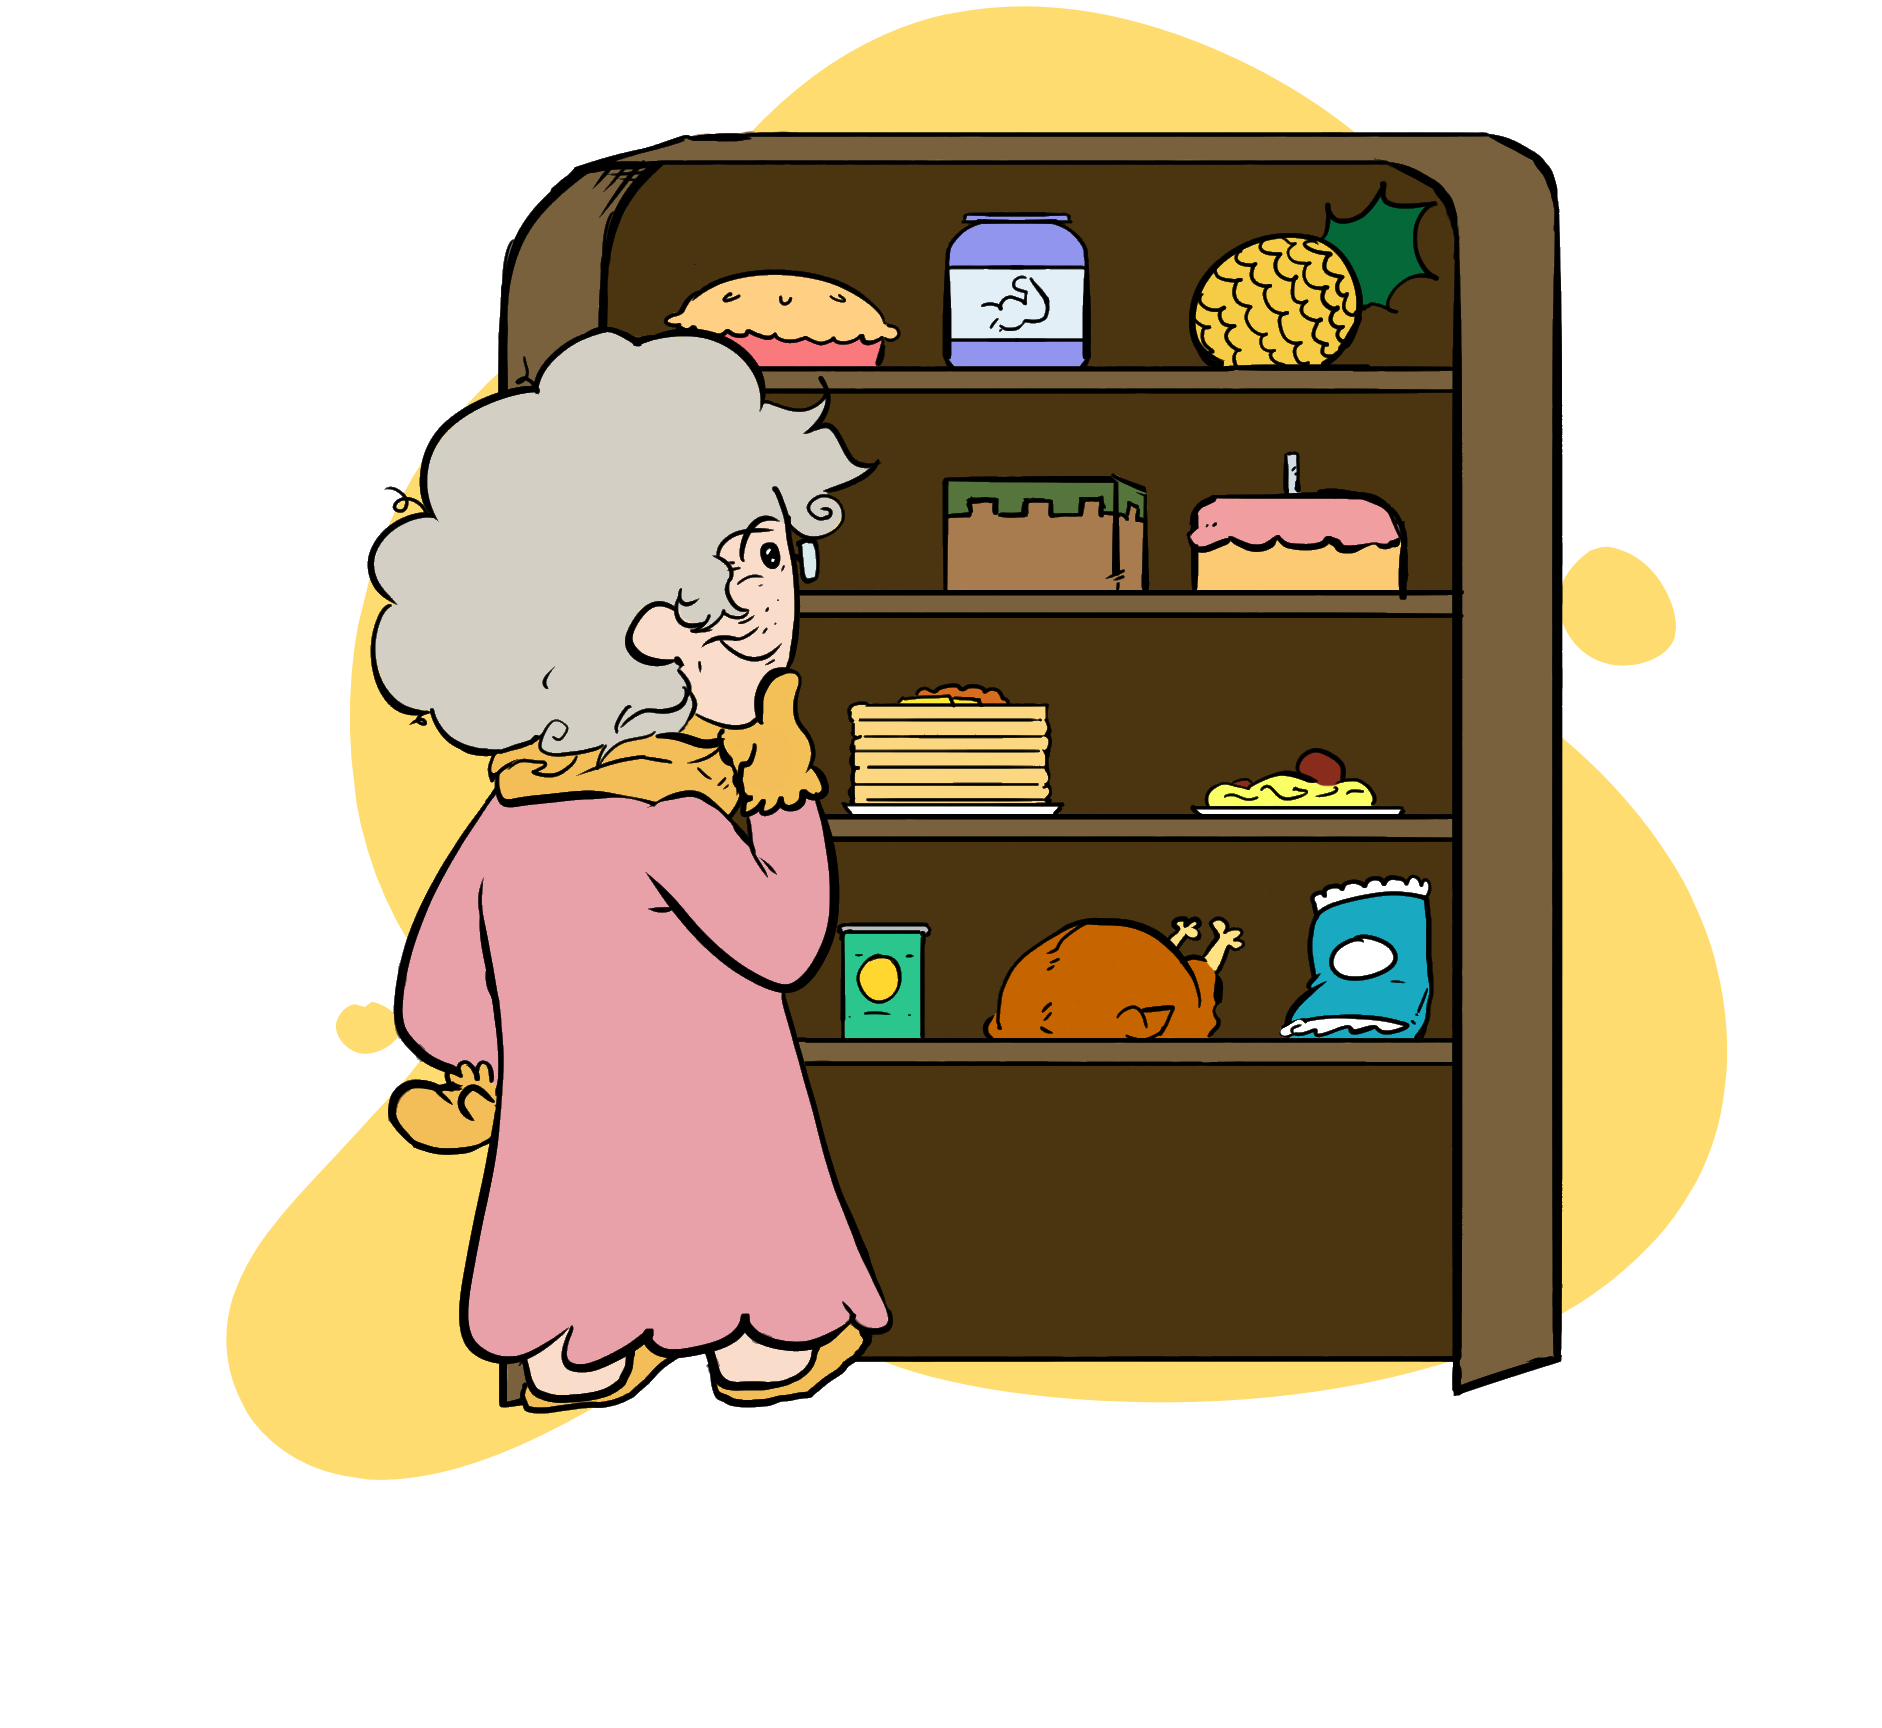
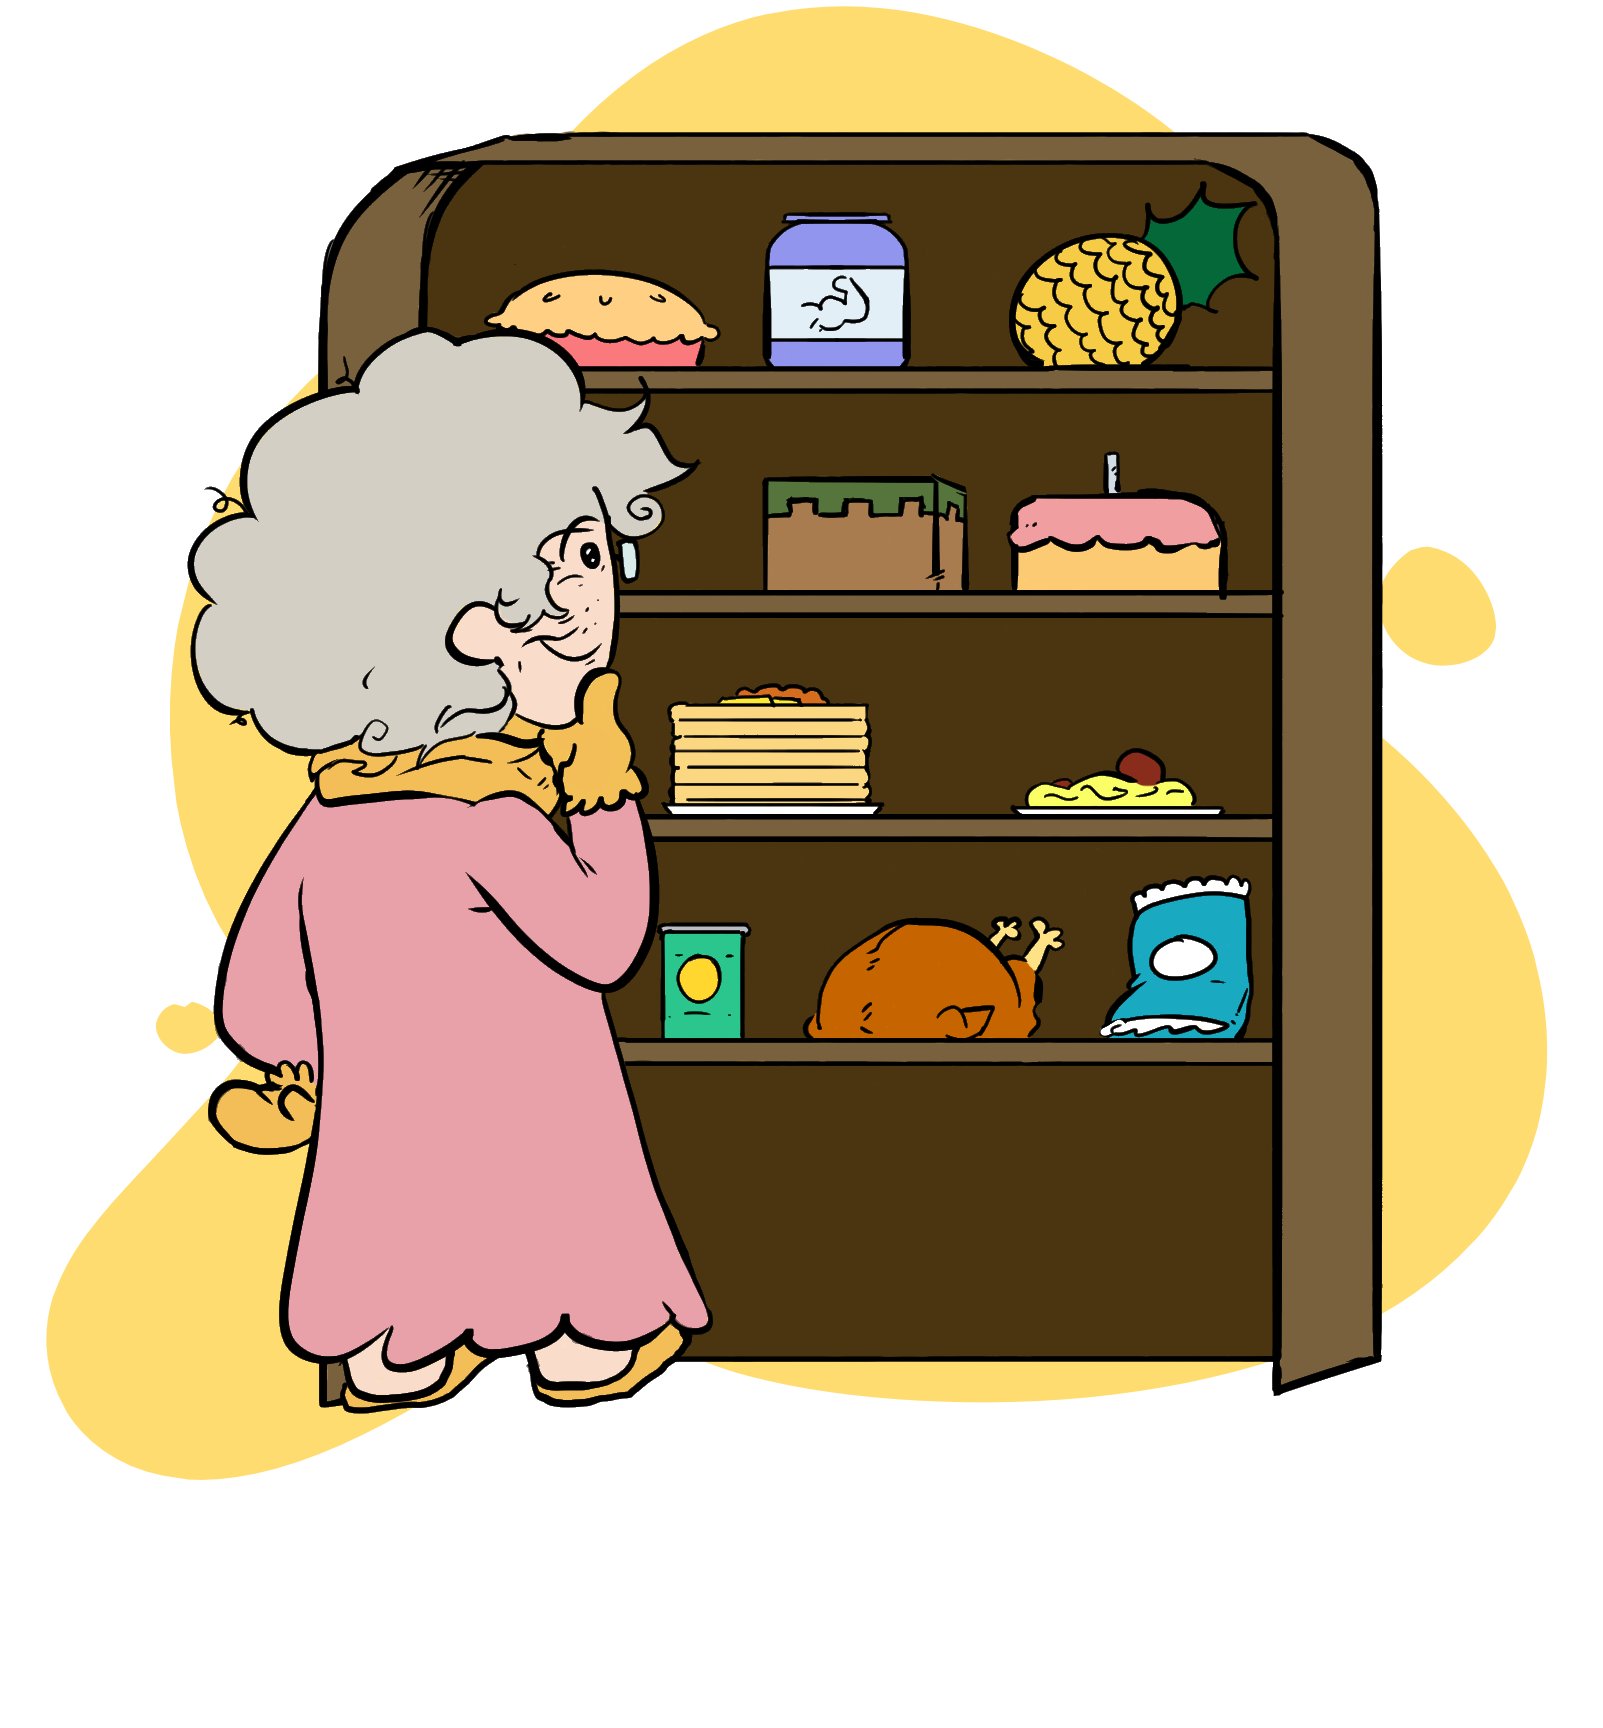
Messed w pam's front page

diff --git a/pam_pan/lib/home_page.dart b/pam_pan/lib/home_page.dart
@@ -14,24 +14,21 @@ class HomePage extends StatelessWidget {
           child: CalendarPageWeek(),
         ),
         Expanded(
-          child: Padding(
-            padding: const EdgeInsets.only(left: 8, right: 8, bottom: 8),
-            child: SizedBox(
-              child: GestureDetector(
-                onTap: () {
-                  Navigator.push(
-                    context,
-                    MaterialPageRoute(
-                      builder: (context) {
-                        return ButtonContentsManager.buttonContents[9];
-                      },
-                    ),
-                  );
-                },
-                child: Image.asset(
-                  "assets/bigPamHome/pam_expanded.png",
-                  fit: BoxFit.fitHeight,
-                ),
+          child: SizedBox(
+            child: GestureDetector(
+              onTap: () {
+                Navigator.push(
+                  context,
+                  MaterialPageRoute(
+                    builder: (context) {
+                      return ButtonContentsManager.buttonContents[9];
+                    },
+                  ),
+                );
+              },
+              child: Image.asset(
+                "assets/bigPamHome/pam_normal.png",
+                fit: BoxFit.fitWidth,
               ),
             ),
           ),

diff --git a/pam_pan/lib/main.dart b/pam_pan/lib/main.dart
@@ -4,37 +4,6 @@ import 'package:pam_pan/accountsetup/libdb.dart';
 import 'package:logger/logger.dart';
 import 'package:pam_pan/accountsetup/front_page.dart';
 
-// class MyApp extends StatelessWidget {
-//   const MyApp({super.key});
-
-//   @override
-//   Widget build(BuildContext context) {
-//     return MaterialApp(
-// debugShowCheckedModeBanner: false,
-// home: DefaultTabController(
-//         length: 2,
-//         child: Scaffold(
-//           appBar: AppBar(
-//             title: const Text('Login & Signup'),
-//             bottom: const TabBar(
-//               tabs: [
-//                 Tab(text: 'Login'),
-//                 Tab(text: 'Signup'),
-//               ],
-//             ),
-//           ),
-//           body: const TabBarView(
-//             children: [
-//               LoginPage(),
-//               SingupPage(),
-//             ],
-//           ),
-//         ),
-//       ),
-//     );
-//   }
-// }
-
 void main() async {
   // v-- might make the app take longer to load (needed to make sure the db can initialize)
   Logger.level = Level.debug;

diff --git a/pam_pan/lib/pantry/add_item_page.dart b/pam_pan/lib/pantry/add_item_page.dart
@@ -36,7 +36,7 @@ class _AddItemPage extends State<AddItemPage> {
         leading: IconButton(
           icon: const Icon(Icons.arrow_back),
           onPressed: () {
-            Navigator.of(context, rootNavigator: true).pop();
+            Navigator.pop(context);
           },
         ),
       ),
